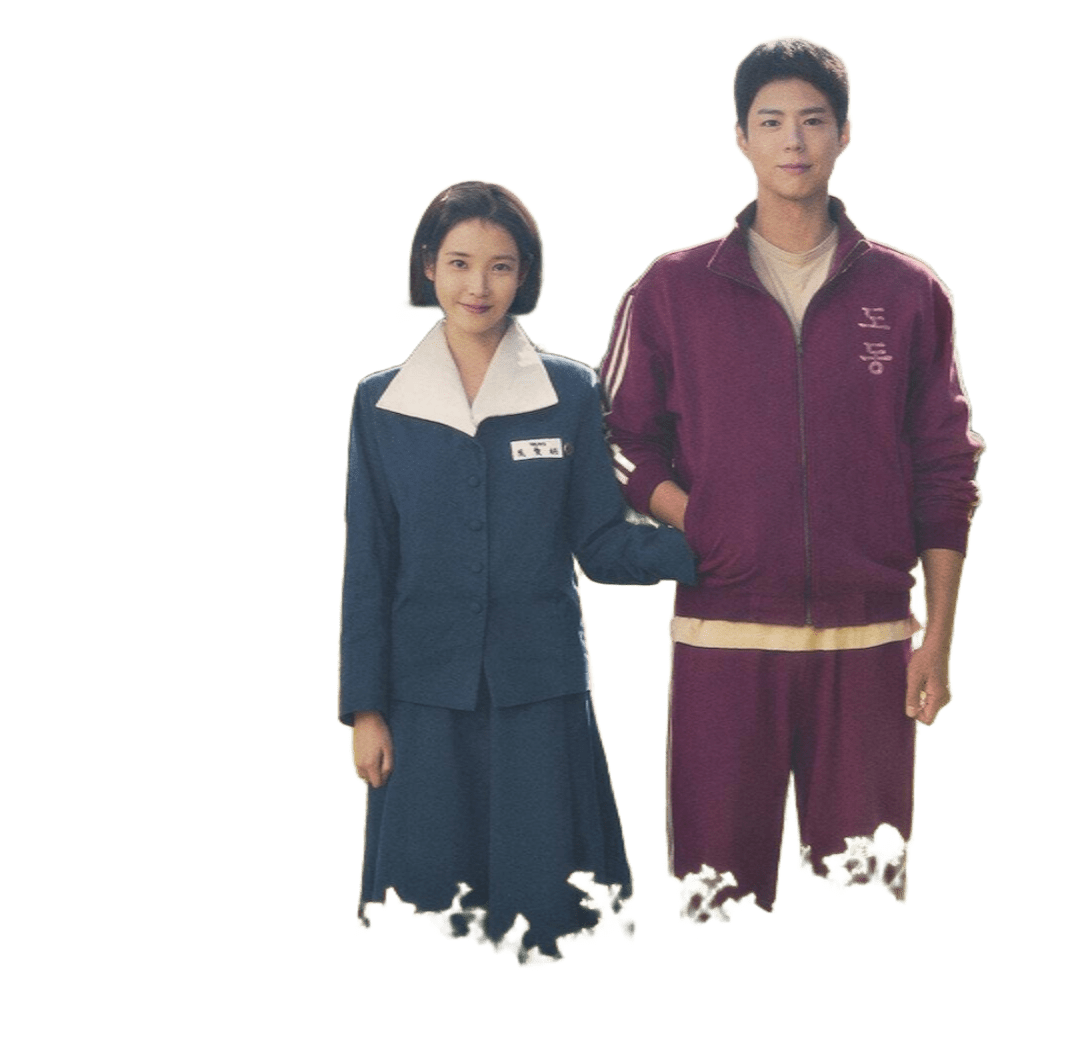
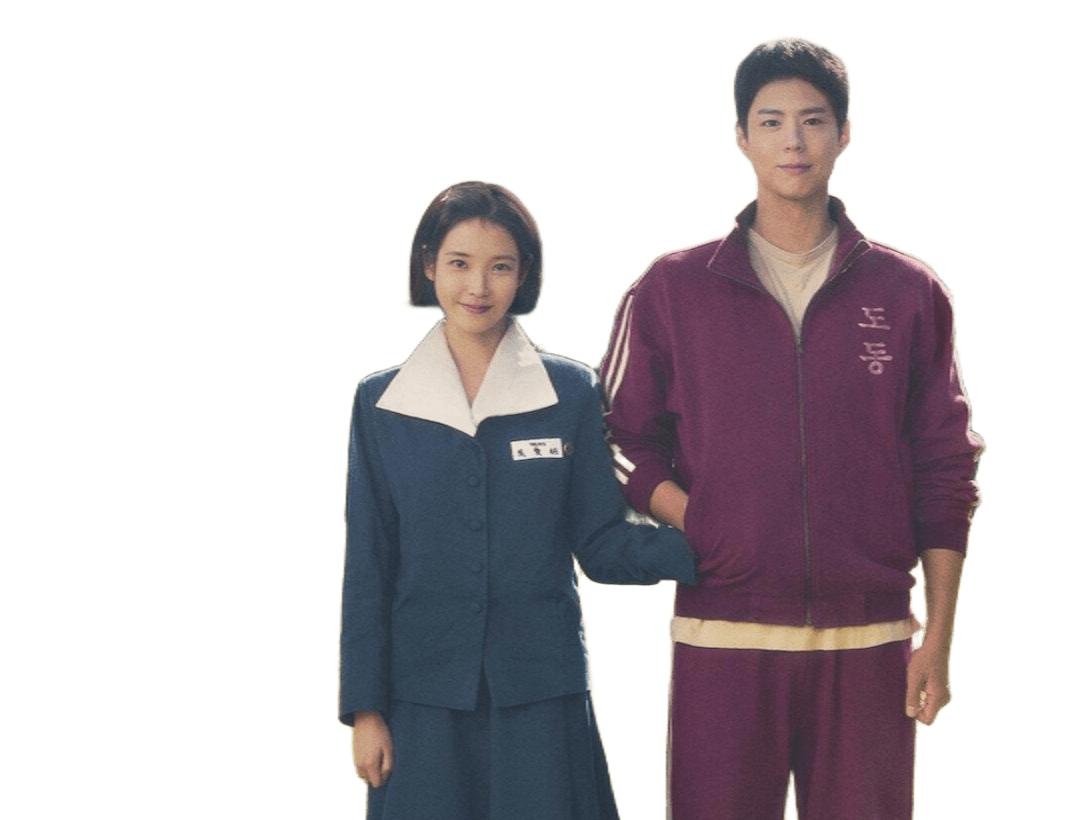
style: korea hero visual refinements (offsets and scales)

Changed region(s): [[0.3056, 0.0305, 0.9167, 1.0], [0.4278, 0.6402, 0.4583, 0.6707]]

diff --git a/src/components/KoreaHero.tsx b/src/components/KoreaHero.tsx
@@ -12,38 +12,44 @@ interface MovieSlideAssets {
     actor: string;
     logo: string;
     actorScale?: number;
+    actorTranslateY?: string;
 }
 
 const ASSETS_MAP: Record<string, MovieSlideAssets> = {
     "nghe-thuat-lua-doi-cua-sarah": {
-        bg: "/images/korea-hero/nghe-thuat-lua-doi-cua-sarah-bg.webp?v=1.6",
-        actor: "/images/korea-hero/nghe-thuat-lua-doi-cua-sarah-actor.webp?v=1.6",
-        logo: "/images/korea-hero/nghe-thuat-lua-doi-cua-sarah-logo.webp?v=1.6",
-        actorScale: 0.95
+        bg: "/images/korea-hero/nghe-thuat-lua-doi-cua-sarah-bg.webp?v=1.7",
+        actor: "/images/korea-hero/nghe-thuat-lua-doi-cua-sarah-actor.webp?v=1.7",
+        logo: "/images/korea-hero/nghe-thuat-lua-doi-cua-sarah-logo.webp?v=1.7",
+        actorScale: 0.82,     // Thu bé lại 1 chút
+        actorTranslateY: "-5%" // Đẩy lên cao hơn 1 chút
     },
     "khi-cuoc-doi-cho-ban-qua-quyt": {
-        bg: "/images/korea-hero/khi-cuoc-doi-cho-ban-qua-quyt-bg.webp?v=1.6",
-        actor: "/images/korea-hero/khi-cuoc-doi-cho-ban-qua-quyt-actor.png?v=1.6",
-        logo: "/images/korea-hero/khi-cuoc-doi-cho-ban-qua-quyt-logo.png?v=1.6",
-        actorScale: 1.05
+        bg: "/images/korea-hero/khi-cuoc-doi-cho-ban-qua-quyt-bg.webp?v=1.7",
+        actor: "/images/korea-hero/khi-cuoc-doi-cho-ban-qua-quyt-actor.png?v=1.7",
+        logo: "/images/korea-hero/khi-cuoc-doi-cho-ban-qua-quyt-logo.png?v=1.7",
+        actorScale: 1.05,
+        actorTranslateY: "-10%" // Đẩy lên cao nhất để che phần chân lỗi (user đã cắt)
     },
     "tieng-yeu-nay-anh-dich-duoc-khong": {
-        bg: "/images/korea-hero/tieng-yeu-nay-anh-dich-duoc-khong-bg.png?v=1.6",
-        actor: "/images/korea-hero/tieng-yeu-nay-anh-dich-duoc-khong-actor.png?v=1.6",
-        logo: "/images/korea-hero/tieng-yeu-nay-anh-dich-duoc-khong-logo.webp?v=1.6",
-        actorScale: 1.15
+        bg: "/images/korea-hero/tieng-yeu-nay-anh-dich-duoc-khong-bg.png?v=1.7",
+        actor: "/images/korea-hero/tieng-yeu-nay-anh-dich-duoc-khong-actor.png?v=1.7",
+        logo: "/images/korea-hero/tieng-yeu-nay-anh-dich-duoc-khong-logo.webp?v=1.7",
+        actorScale: 1.25,     // To hơn chút
+        actorTranslateY: "-15%" // Đẩy lên cao hẳn trên background cho đẹp
     },
     "ban-trai-theo-yeu-cau": {
-        bg: "/images/korea-hero/ban-trai-theo-yeu-cau-bg.webp?v=1.6",
-        actor: "/images/korea-hero/ban-trai-theo-yeu-cau-actor.webp?v=1.6",
-        logo: "/images/korea-hero/ban-trai-theo-yeu-cau-logo.webp?v=1.6",
-        actorScale: 1.1
+        bg: "/images/korea-hero/ban-trai-theo-yeu-cau-bg.webp?v=1.7",
+        actor: "/images/korea-hero/ban-trai-theo-yeu-cau-actor.webp?v=1.7",
+        logo: "/images/korea-hero/ban-trai-theo-yeu-cau-logo.webp?v=1.7",
+        actorScale: 1.35,     // To hơn chút (yêu cầu phim 4)
+        actorTranslateY: "-8%"  // Đẩy lên
     },
     "trao-em-ca-vu-tru": {
-        bg: "/images/korea-hero/trao-em-ca-vu-tru-bg.webp?v=1.6",
-        actor: "/images/korea-hero/trao-em-ca-vu-tru-actor.webp?v=1.6",
-        logo: "/images/korea-hero/trao-em-ca-vu-tru-logo.png?v=1.6",
-        actorScale: 1.0
+        bg: "/images/korea-hero/trao-em-ca-vu-tru-bg.webp?v=1.7",
+        actor: "/images/korea-hero/trao-em-ca-vu-tru-actor.webp?v=1.7",
+        logo: "/images/korea-hero/trao-em-ca-vu-tru-logo.png?v=1.7",
+        actorScale: 1.15,     // To hơn chút (yêu cầu phim 5)
+        actorTranslateY: "-12%" // Đẩy lên (yêu cầu phim 5)
     }
 };
 
@@ -63,7 +69,8 @@ export default function KoreaHero({ initialMovies = [] }: KoreaHeroProps) {
                 bg: movie.thumb_url || movie.poster_url,
                 actor: "",
                 logo: "",
-                actorScale: 0.85
+                actorScale: 0.85,
+                actorTranslateY: "0%"
             };
             
             return {
@@ -156,6 +163,10 @@ export default function KoreaHero({ initialMovies = [] }: KoreaHeroProps) {
                                     alt="Characters"
                                     fill
                                     className="object-contain object-right-bottom drop-shadow-[0_25px_50px_rgba(0,0,0,0.9)]"
+                                    style={{ 
+                                        transform: `scale(${currentMovie.actorScale || 0.85}) translateY(${currentMovie.actorTranslateY || "0%"})`,
+                                        transformOrigin: "bottom right" 
+                                    }}
                                     priority
                                     quality={95}
                                 />
